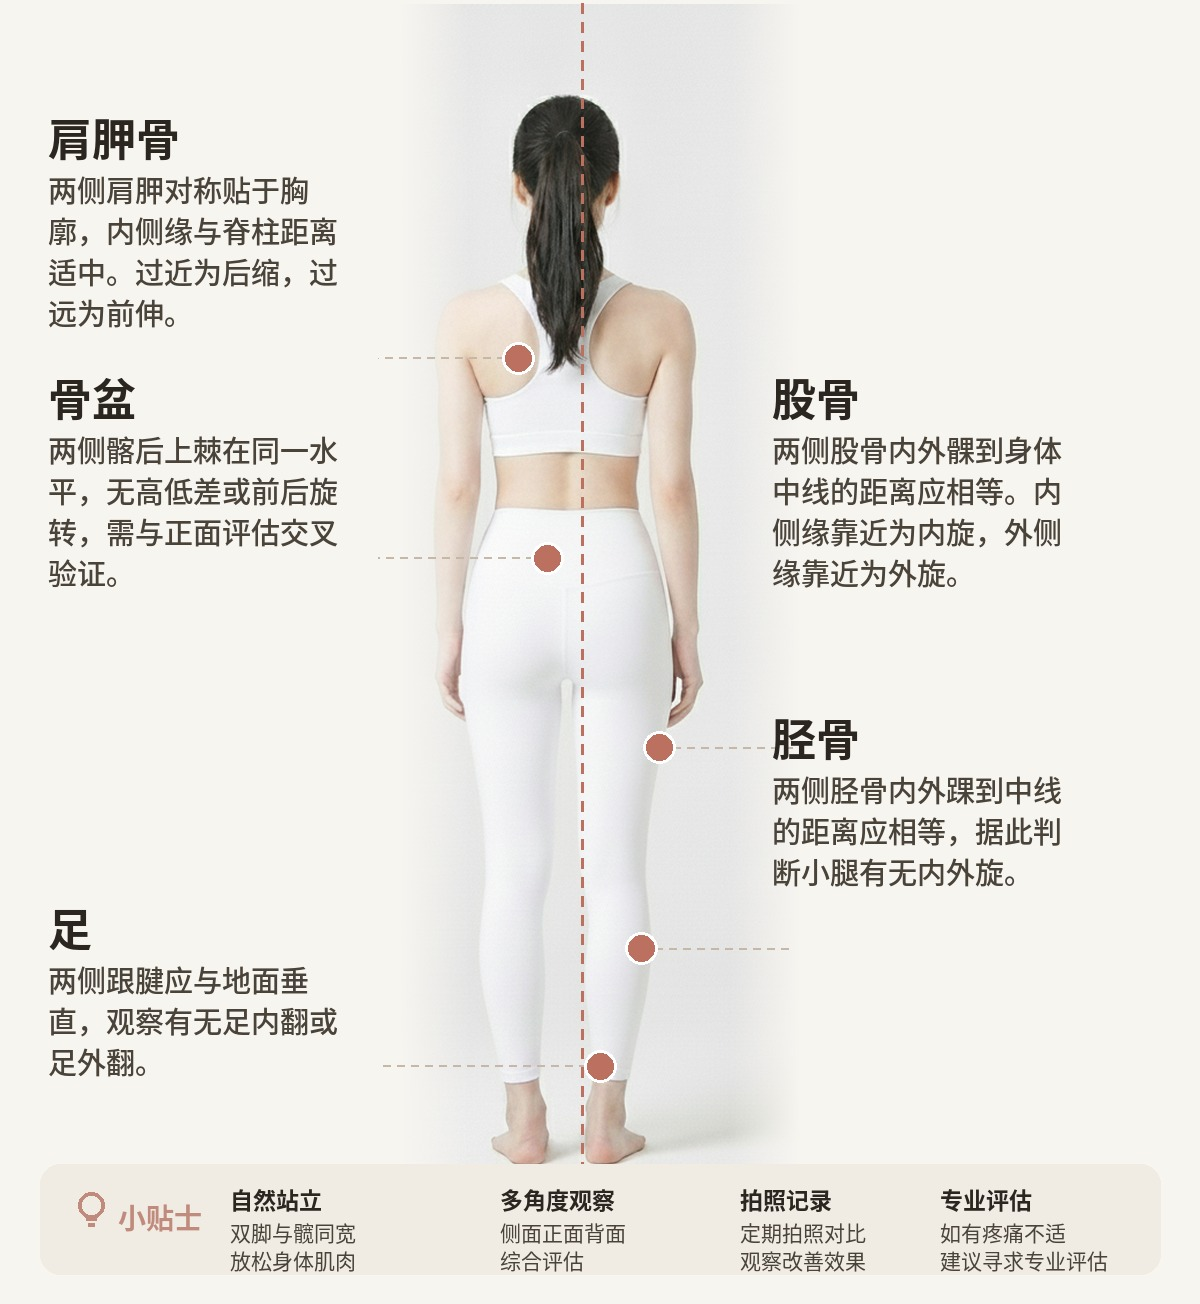
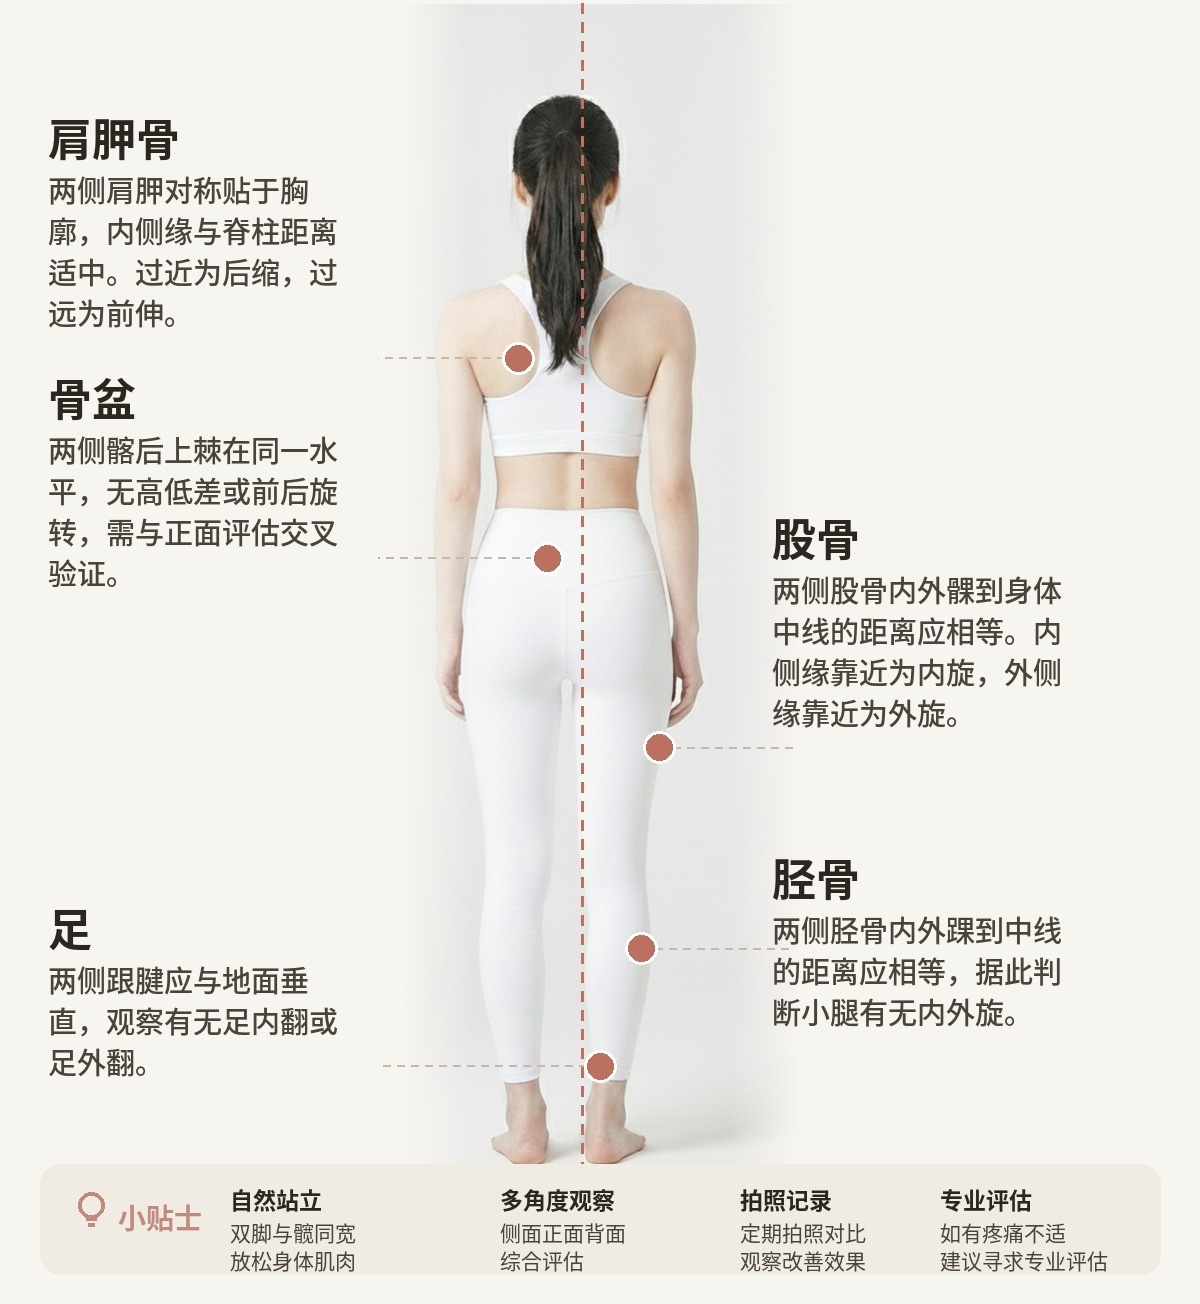
背面：股骨、胫骨卡片下移
Claude-Session: https://claude.ai/code/session_01Nkdaws1GkKoqKvowGcGT1f

Changed region(s): [[0.6475, 0.2761, 0.8942, 0.7975]]

diff --git a/backend/tools/make_pose_posters.py b/backend/tools/make_pose_posters.py
@@ -237,7 +237,7 @@ if __name__ == "__main__":
     head_y.clear()
     head_y.update({
         ("L","scapula"):300, ("L","pelvis"):560, ("L","foot"):1090,
-        ("R","femur"):560, ("R","tibia"):900,
+        ("R","femur"):700, ("R","tibia"):1040,
     })
     build(
         "back",
